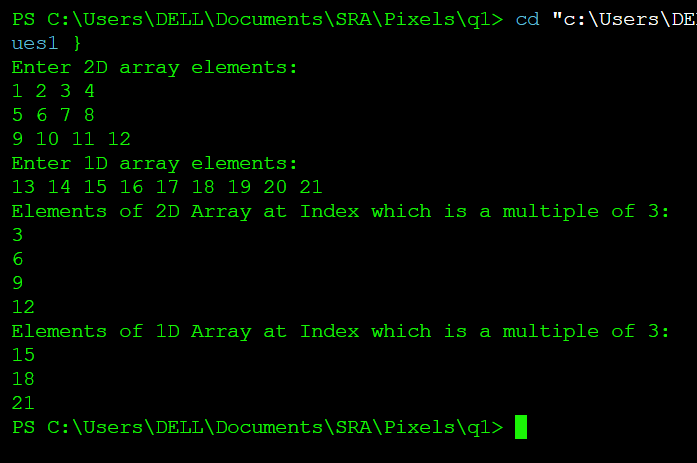
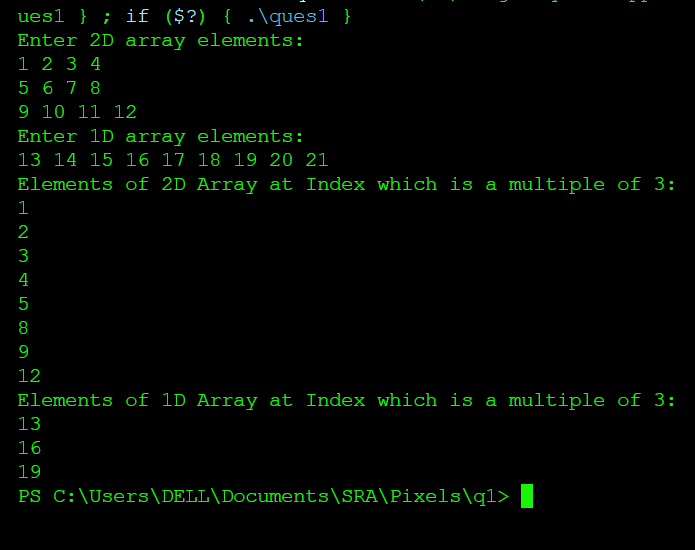
all done

diff --git a/q1/ques1.cpp b/q1/ques1.cpp
@@ -31,7 +31,7 @@ namespace arr2D {
         cout <<"Elements of 2D Array at Index which is a multiple of 3:"<< endl;
         for(int i = 0; i < r; i++){
             for (int j = 0; j < c; j++){
-                if(i%3 == 0 && j%3 == 0) cout << arr[i][j] << endl;
+                if((i*j)%3 ==0) cout << arr[i][j] << endl;
             }
         }
     
